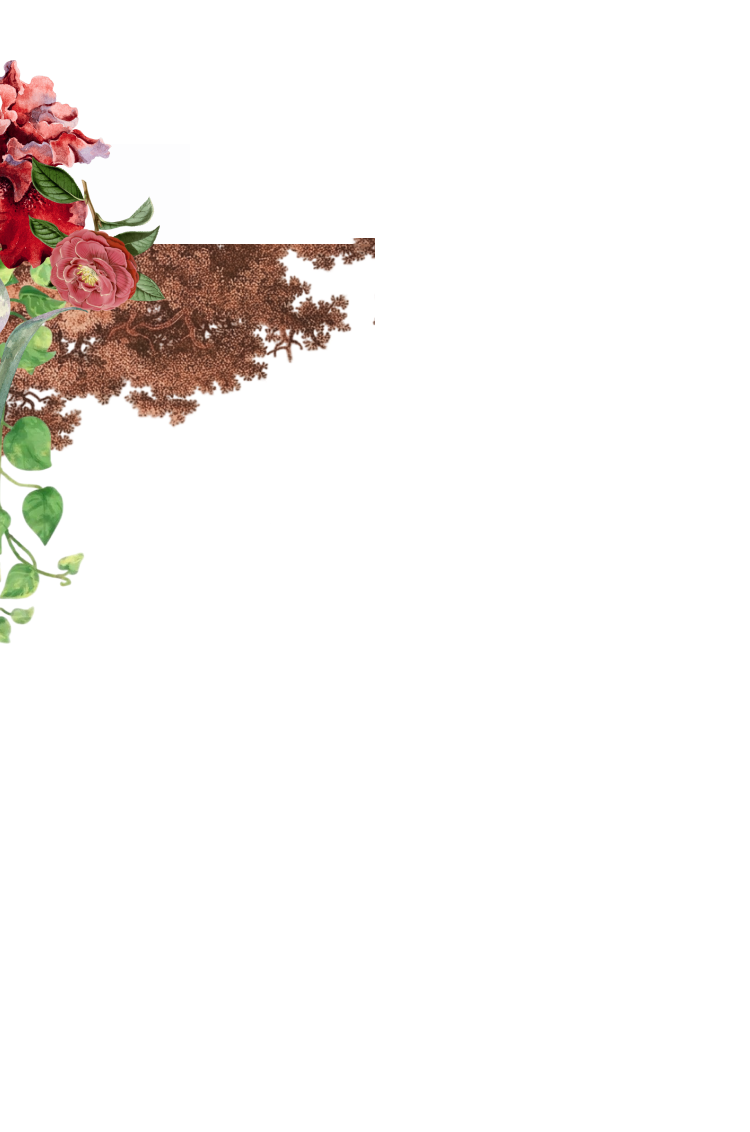
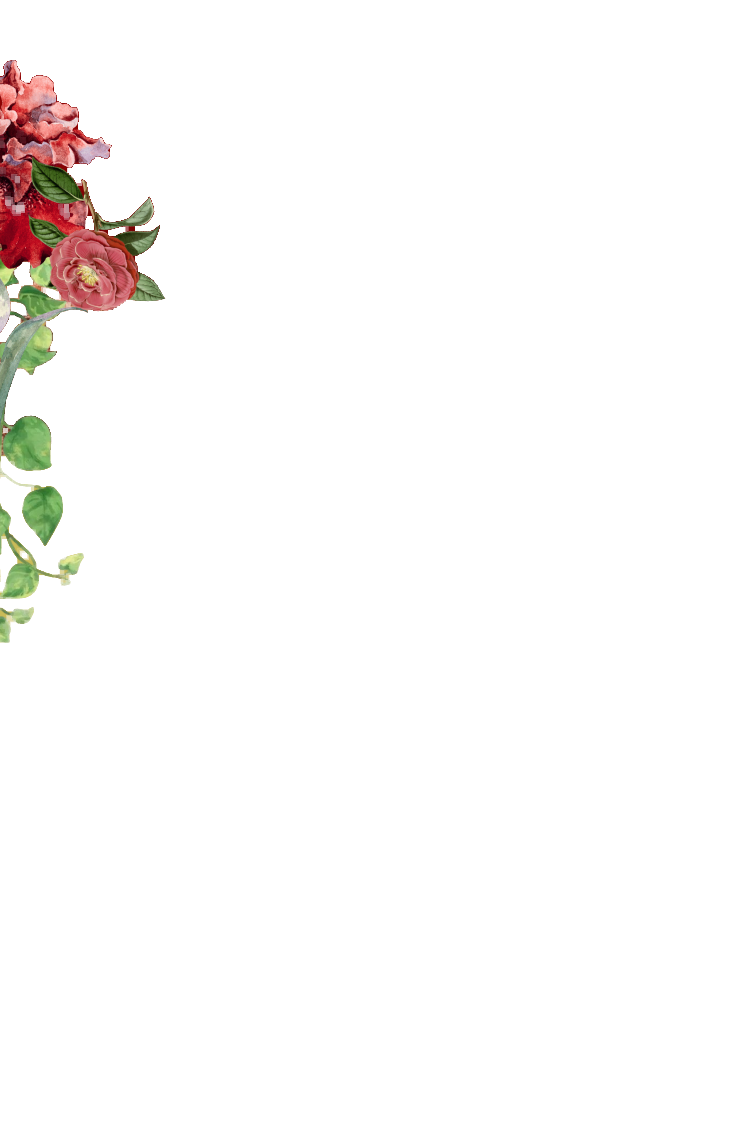
fix: re-slice the footer so the crimson arch sits between moss and bouquets
The single florL/florR slices baked the ground moss and the flower sprays into
one layer, but the design puts the crimson Ellipse 7 between them — moss under
it, sprays over it. Whichever z-index the layer got, one of the two broke: the
sprays were sliced by the panel's clip-path polygon, or the moss covered the
arch and the curve vanished.

Re-exported the footer band (frame 2:80, y 9010..9576) from Figma twice, once
with the six spray nodes hidden, and took the difference as the spray cut-out.
bg.webp now carries the crimson already composited over the moss, so the sprays
are the only thing that has to ride on top and the ordering can't regress.

Drops panel.png, which only ever duplicated crimson that bg.webp already paints.

diff --git a/src/components/invite/FooterSection.vue b/src/components/invite/FooterSection.vue
@@ -1,7 +1,6 @@
 <script setup lang="ts">
 // Per-asset closing footer: thank-you note, credits, socials and the bottom nav bar.
 import bg from "../../assets/invite/footer/parts/bg.webp";
-import panel from "../../assets/invite/footer/parts/panel.png";
 import florL from "../../assets/invite/footer/parts/florL.png";
 import florR from "../../assets/invite/footer/parts/florR.png";
 import divider from "../../assets/invite/footer/parts/divider.png";
@@ -14,7 +13,6 @@ defineExpose({ el });
 
 const layers = [
   { src: bg, cls: "f-bg" },
-  { src: panel, cls: "f-panel" },
   { src: florL, cls: "f-florL" },
   { src: florR, cls: "f-florR" },
 ];
@@ -70,17 +68,12 @@ const layers = [
   will-change: transform, opacity;
 }
 
-/* z-order back → front */
+/* z-order back → front. bg.webp is the full band re-sliced from Figma with the
+   bouquets hidden, so the crimson already sits over the moss the way the design
+   layers it; the sprays are the only thing that has to ride on top. */
 .f-bg { z-index: 0; }
-.f-panel {
-   z-index: 1;
-  height: auto;
-  bottom: auto;
-  object-fit: cover;
-  /* corners cut out: the coral sprays there belong in FRONT of the crimson, and bg.webp
-     still paints the same red underneath them, so nothing is lost */
-  clip-path: polygon(21% 1px, 81% -6px, 80% 67%, 76% 42%, 99% 100%, 0px 100%, 0px 100%, 18.22% 70.29%);
-}
+.f-florL,
+.f-florR { z-index: 1; }
 
 
 
@@ -180,8 +173,7 @@ const layers = [
 }
 
 /* ===== per-asset entrances, gated on scroll-in ===== */
-.f-bg,
-.f-panel { opacity: 1; } /* base stays painted — no rectangle pop */
+.f-bg { opacity: 1; } /* base stays painted — no rectangle pop */
 .foot.shown .f-florL { transform-origin: 0 0; animation: ftDropL 1.25s cubic-bezier(0.16,1,0.3,1) 0.14s both; }
 .foot.shown .f-florR { transform-origin: 100% 0; animation: ftDropR 1.25s cubic-bezier(0.16,1,0.3,1) 0.2s both; }
 .foot.shown .f-div { transform-origin: 50% 50%; animation: ftDiv 0.62s ease 0.2s both; }
